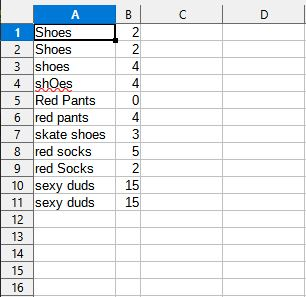
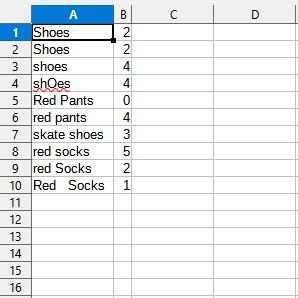
add TODO and change correct image example on intro screen

diff --git a/src/main/java/alex220mark/utils/DuplicateRemover.java b/src/main/java/alex220mark/utils/DuplicateRemover.java
@@ -13,6 +13,7 @@ public class DuplicateRemover {
 		Map<String, Integer> finalMap = new HashMap<>();
 		// adding the names from the List Parameter to the new map (in all caps), this
 		// removes duplicate names
+		// TODO: need to account for names with more than 1 whitespace between words
 		for (int i = 0; i < initialMap.size(); i++) {
 			finalMap.put(initialMap.get(i).getName().toUpperCase(), 0);
 		}
